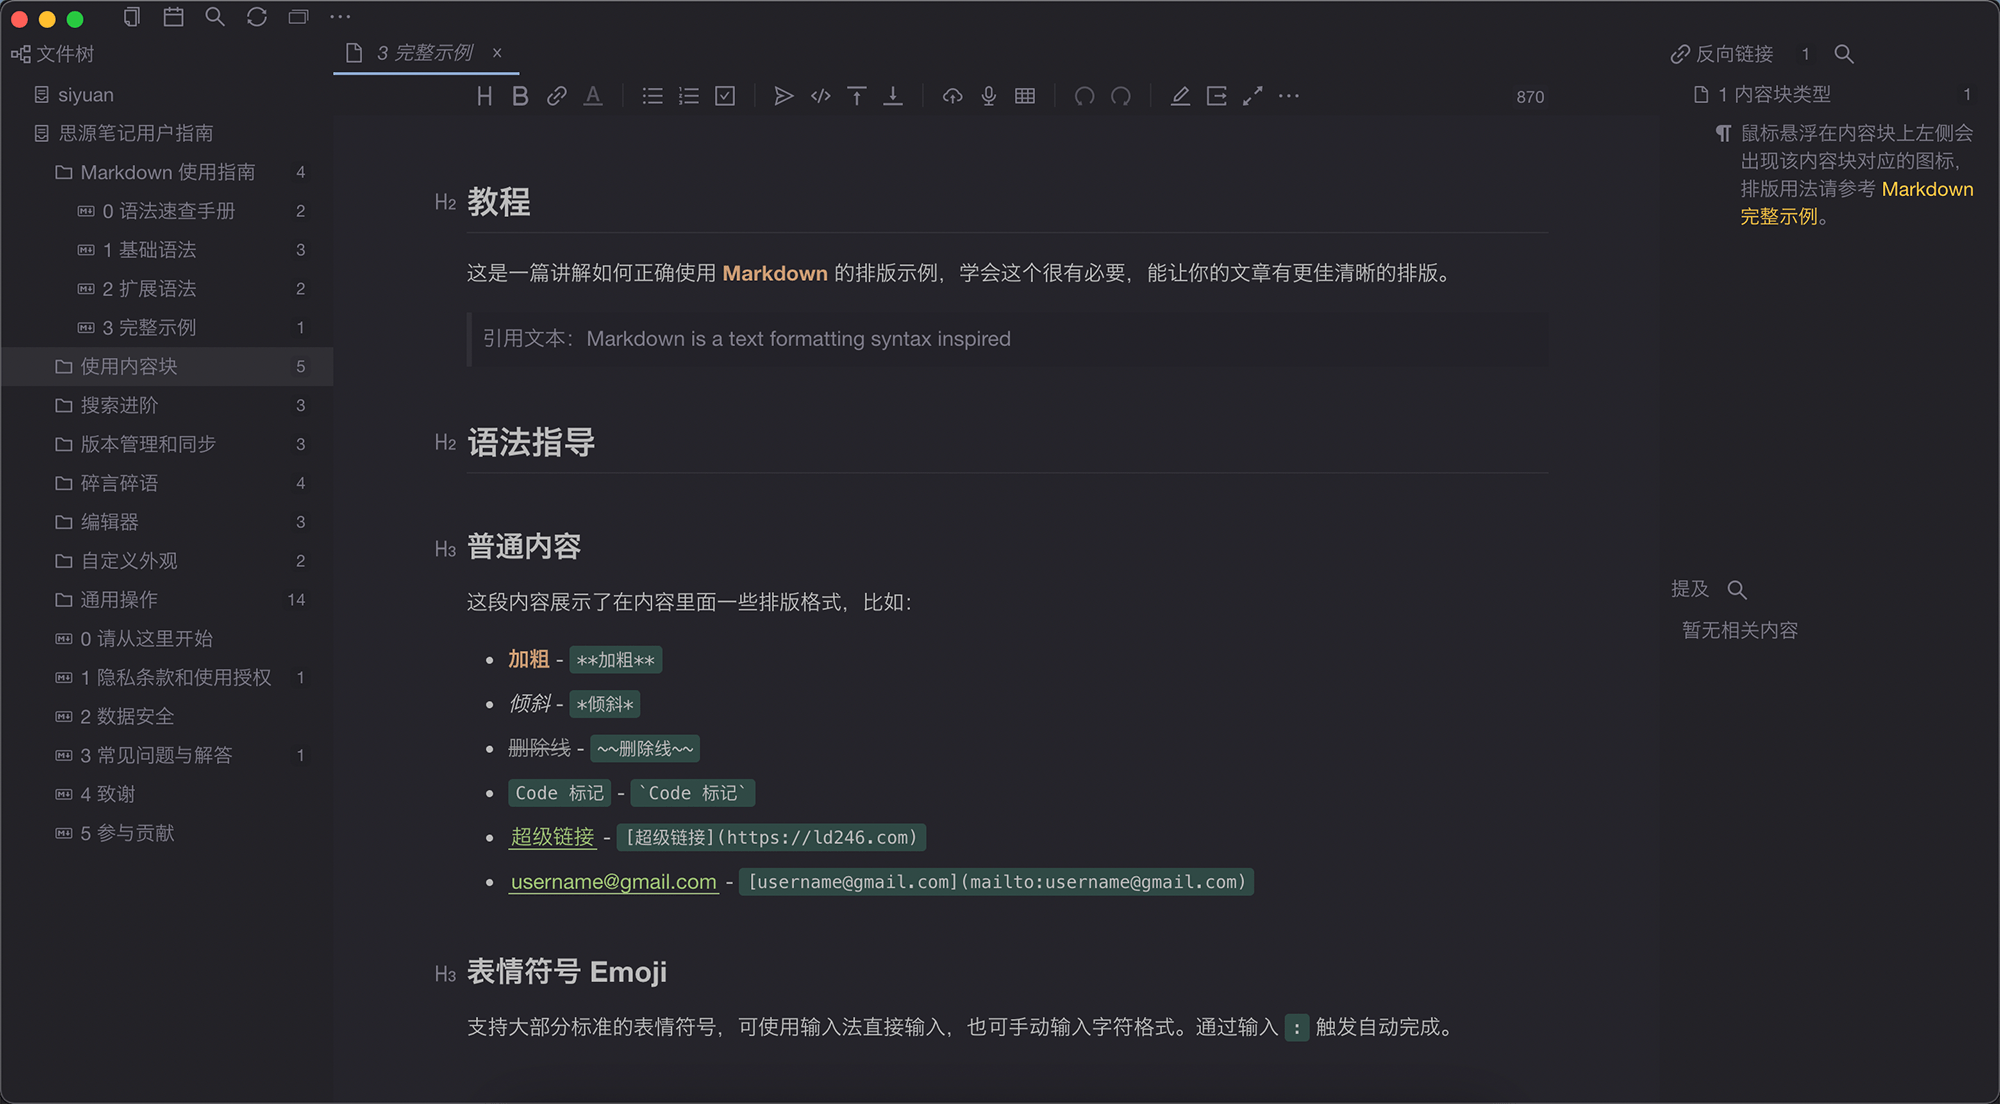
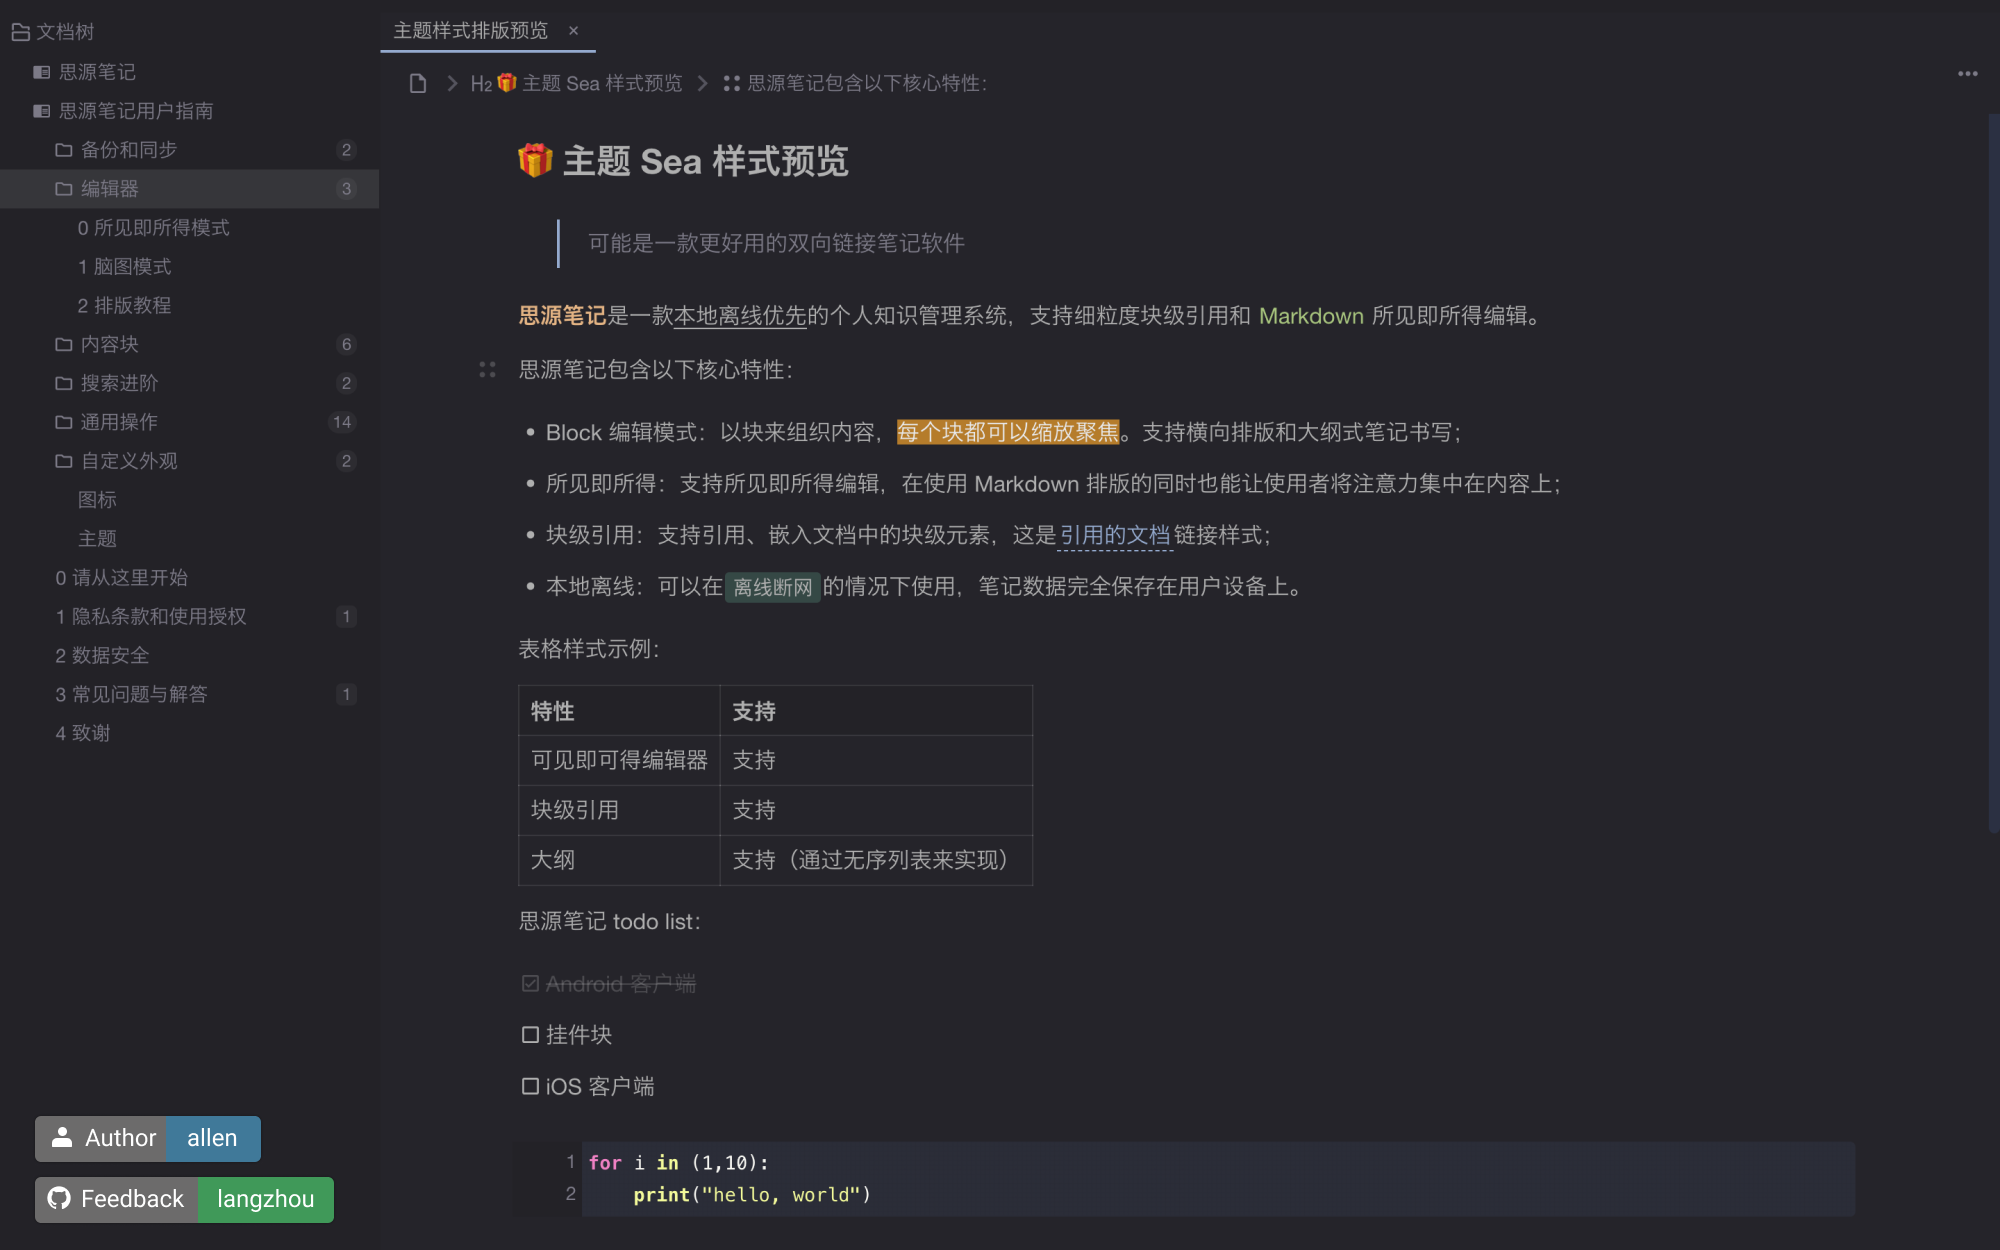
适配思源笔记 v1.2

diff --git a/theme.css b/theme.css
@@ -1,4 +1,4 @@
-/******* Notice ************
+/******* Sea: Theme for SiYuan Note ************
 1. 本主题样式仅在16px字号设置下进行有限场景的测试，不能保证所有页面均完美呈现。如果遇到相关功能或样式问题，请重置为官方主题后再确认问题是否重现。
 2. 标注为「实验功能」的部分请谨慎开启使用。
 /************************/
@@ -22,7 +22,7 @@
     --b3-theme-on-error: #fff;
 
     /* 字体 */
-    --b3-font-family: "Helvetica Neue", "Luxi Sans", "DejaVu Sans", "Hiragino Sans GB", "Microsoft Yahei", sans-serif, "Apple Color Emoji", "Segoe UI Emoji", "Noto Color Emoji", "Segoe UI Symbol", "Android Emoji", "EmojiSymbols";
+    --b3-font-family: "Pingfang SC","Helvetica Neue", "Luxi Sans", "DejaVu Sans", "Hiragino Sans GB", "Microsoft Yahei", sans-serif, "Apple Color Emoji", "Segoe UI Emoji", "Noto Color Emoji", "Segoe UI Symbol", "Android Emoji", "EmojiSymbols";
     --b3-font-family-code: mononoki, Consolas, "Liberation Mono", Menlo, Courier, monospace, "Apple Color Emoji", "Segoe UI Emoji", "Noto Color Emoji", "Segoe UI Symbol", "Android Emoji", "EmojiSymbols";
     --b3-font-family-graph: mononoki;
 
@@ -37,7 +37,7 @@
 
     /* 页签 */
     --b3-tab-background: #212224;
-    --b3-tab-background-hover: #2e2f31;
+    --b3-tab-background-hover: var(--b3-theme-primary-lightest);
 
     /* 提示 */
     --b3-tooltips-color: rgba(70, 72, 76, .86);
@@ -140,6 +140,7 @@
     --allen-column-border:var(--allen-column-width) solid var(--b3-border-color); /* 分栏边框 */
     --allen-protyle-inline-code:#8AA2CB;
     --allen-protyle-inline-code-background:#2f4945;
+    --allen-line-height: 1.75em; /* 行高 */
 
     /*动画*/
     --allen-page-scrollbar-transition: opacity 800ms ease 0s; /*分页加载条动画*/
@@ -157,7 +158,7 @@
 }
 
 
-/* 说明：支持在全屏模式下自动隐藏顶栏，鼠标悬浮时展现。请将 min-height和 min-width 设置为自己电脑屏幕分辨率，如果需要此功能请注释代码 */
+/* 说明：支持在全屏模式下自动隐藏顶栏，鼠标悬浮时展现。请将 min-height和 min-width 设置为自己电脑屏幕分辨率，如果不需要此功能请注释代码 */
 /******* 隐藏toolbar 代码开始 *********/
 @media only screen and (min-height: 800px) and (min-width: 1000px)
 {
@@ -365,17 +366,19 @@ span.counter:not(.popover__block){
     color: var(--b3-scroll-color);
 }
 /* 增加块图标悬浮时背景色 */
-.protyle-gutters:hover button svg{
+.protyle-gutters button:hover svg{
     color: var(--b3-theme-primary);
 }
 .protyle-gutters button{
     padding-top: 2px;
     width: 20px;
     height: 20px;
+    border-radius: 3px;
+    background-color: var(--b3-theme-background); /* 强制块图标使用背景色，以避免在超级块等场景下显示不清楚 */
 }
 .protyle-gutters:hover button {
     background-color: var(--b3-theme-primary-lightest);
-    border-radius: 3px;
+    background-color: #2B3042; /* 采用非透明色，避免在超级块等场景下显示不清楚 */
 }
 
 /* 块引用数 */
@@ -493,6 +496,11 @@ strong[style]{
      line-height: 100%;
 }
 
+/* kbd */
+.b3-typography kbd, .protyle-wysiwyg kbd{
+    font-size: 85%;
+}
+
 /* 引述 */
 .b3-typography blockquote, .b3-typography .bq, .protyle-wysiwyg blockquote, .protyle-wysiwyg .bq {
     border-left: 2px solid var(--b3-theme-primary);
@@ -501,6 +509,13 @@ strong[style]{
     margin:1em 2em 1em 2em !important; 
     padding-left: 1em !important;
     padding: 0 4px;
+}
+
+/* 调整引述在超级块中的样式 */
+.protyle-wysiwyg .sb blockquote,  .protyle-wysiwyg .sb .bq{
+    border-left: 3px solid var(--b3-border-color);
+    margin: 0 !important;
+    padding: 4px !important;
 }
 
 /* 代码片段 
@@ -525,7 +540,23 @@ strong[style]{
 
 /* 块折叠状态 */
 .protyle-wysiwyg [data-node-id][fold="1"]{
-     #height: 24px;
+     height: 28px;
+}
+/* 调整折叠时 引述块样式 */
+.protyle-wysiwyg [data-type="NodeBlockquote"][fold="1"]{
+     margin-left : 0 !important;
+     margin-right : 0 !important;
+}
+/* 调整折叠时 引述块下列表及段落样式 */
+.protyle-wysiwyg [data-type="NodeBlockquote"][fold="1"] .protyle-action{
+    display: none;
+}
+.protyle-wysiwyg [data-type="NodeBlockquote"][fold="1"]  div{
+     margin-left: 0 !important;
+     margin-right: 0 !important;
+     margin: 0 !important;
+     padding:0 !important;
+     border:none;
 }
 
 /*大纲折叠时圆点添加背景色*/
@@ -557,8 +588,12 @@ strong[style]{
 /****************** 三、文档排版 ***************************************/
 
 /* 通用设置 */
+.protyle-wysiwyg{
+    #padding-top: 54px !important; /*增大上边距为了避免面包屑2行时遮挡文档第一行文字*/
+}
+
 .b3-typography ,.protyle-wysiwyg [data-node-id] [contenteditable="true"]{
-    line-height: 170%;/* 行高 */
+    line-height: var(--allen-line-height);/* 行高 */
     letter-spacing: 0px; /* 字间距 */
     word-spacing: 0px; /* 词间距 */
     text-align:left;
@@ -568,7 +603,8 @@ strong[style]{
 
 /* 段落 p */
 .b3-typography p, .b3-typography [data-node-id], .protyle-wysiwyg p, .protyle-wysiwyg [data-node-id]{
-    #margin:2px 0;
+    margin: 0;
+    line-height: var(--allen-line-height);/* 行高 */
 }
 
 /*标题 h*/
@@ -607,14 +643,14 @@ strong[style]{
 
 /* 大纲、列表 */
 .b3-typography ul,.b3-typography ol ,.protyle-wysiwyg [data-node-id].list{
-    margin:0px 0;
+    margin:0px ;
 }
 /*列表项*/
 .b3-typography li,.protyle-wysiwyg [data-node-id].li{
-    margin:2px 0;
+    margin: 0;
 }
 .b3-typography li{
-    margin-bottom: 8px;
+    #margin-bottom: 8px;
 }
 
 /* 表格 */
@@ -623,7 +659,7 @@ strong[style]{
 }
 /*偶数行*/
 .b3-typography table tbody tr:nth-child(2n+1),.protyle-wysiwyg table tbody tr:nth-child(2n+1) {
-    background:transparent;
+    background:var(--b3-theme-background);
 }
 
 /* 图片 */
